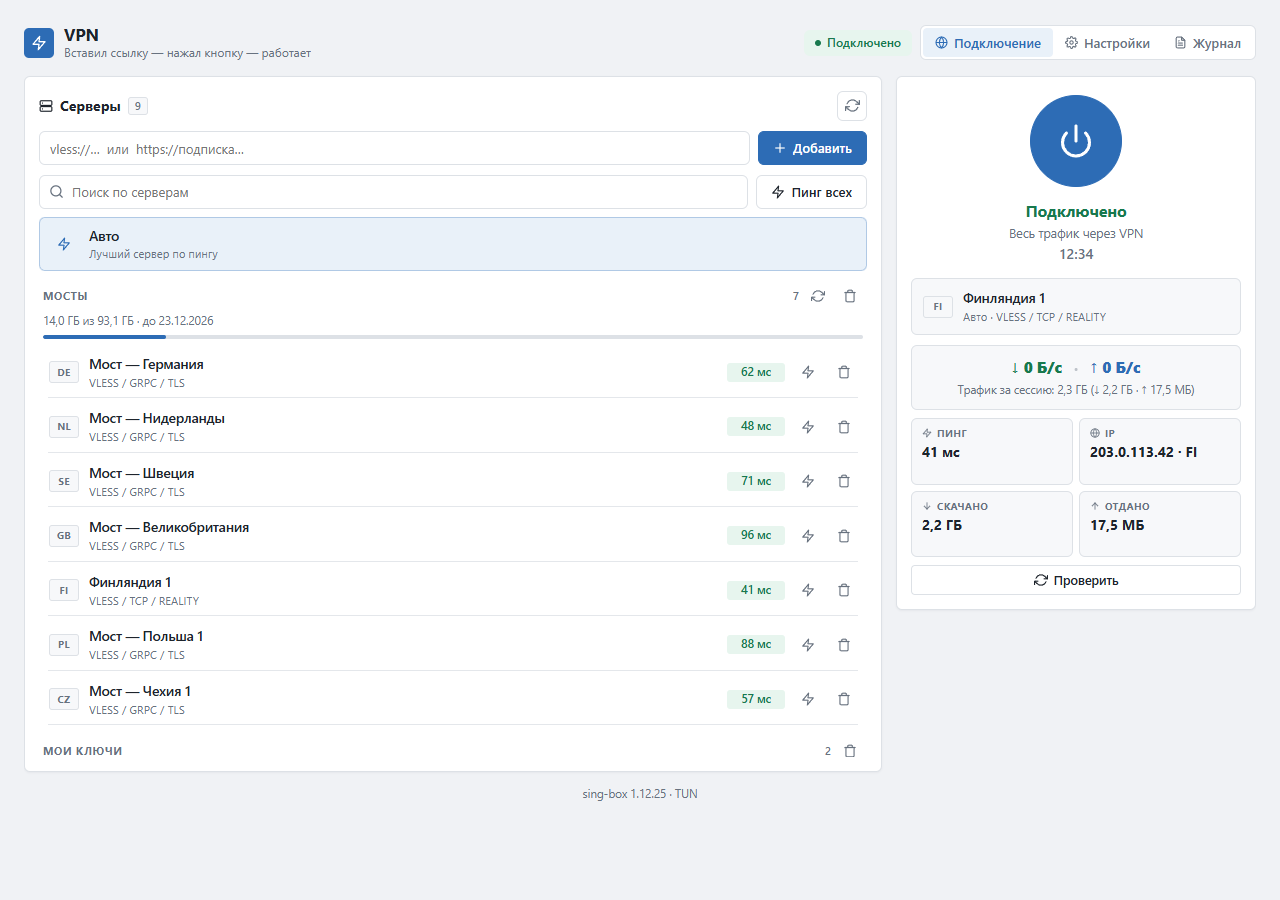
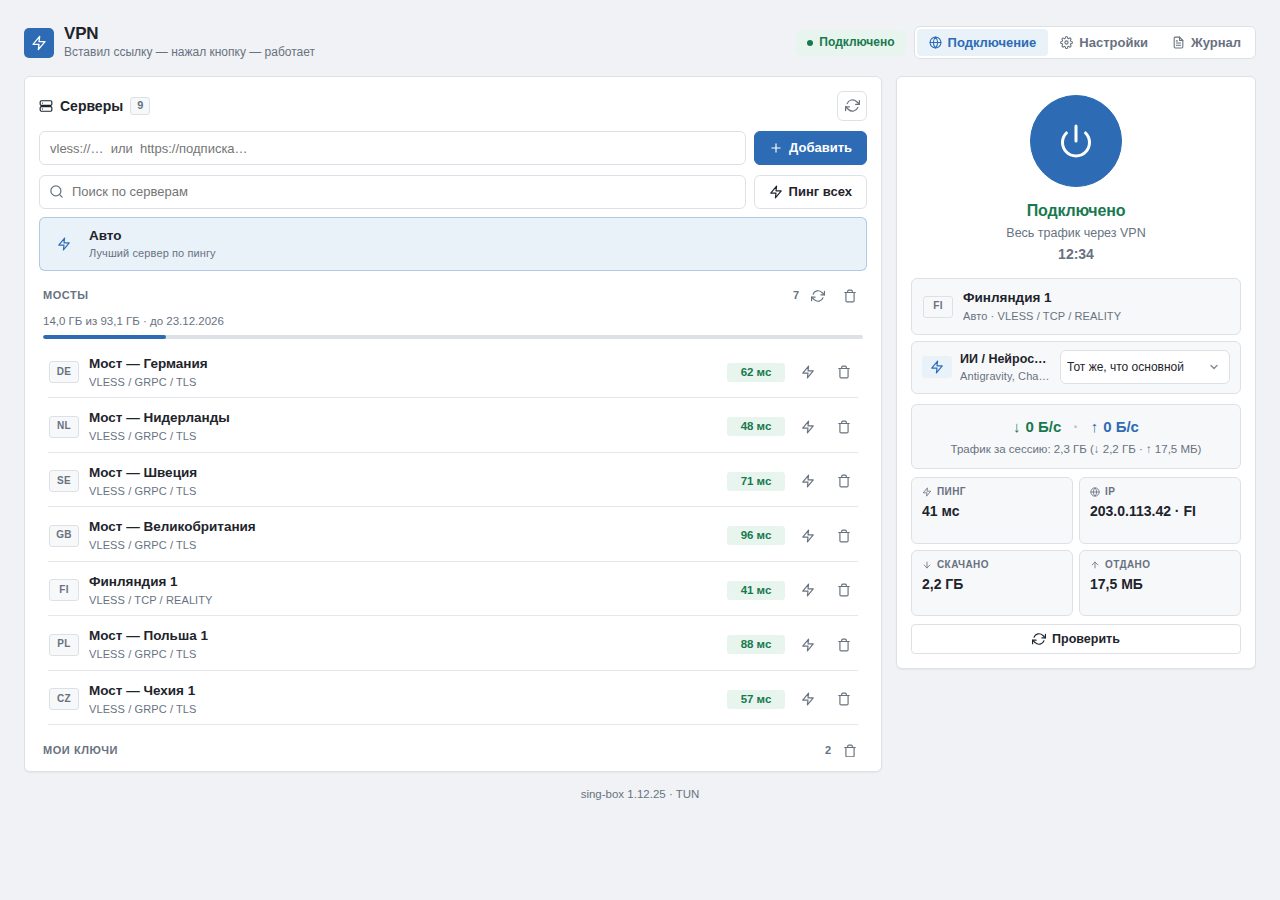
docs: обновление скриншотов интерфейса и описания возможностей

diff --git a/README.md b/README.md
@@ -23,6 +23,8 @@
 - **Автозагрузка официального sing-box.** Если в opkg нет пакета sing-box или установлена устаревшая сборка без TUN, установщик сам определит архитектуру роутера (`mipsle`, `aarch64`, `arm`, `x86_64`) и скачает официальный бинарник с GitHub Releases (`vless fetch-core`).
 - **Форматы.** `vless://`, `vmess://`, `trojan://`, `ss://`, `hysteria2://`, подписки `https://…` (обычные, base64, Xray-JSON). Reality, TLS, WebSocket, gRPC, HTTPUpgrade, h2.
 - **Пресеты маршрутизации.** Весь трафик, «всё, кроме российских сайтов» или «только выбранное»: Telegram, YouTube, Discord, Meta, X, ИИ-сервисы, 18+ — плюс свои сайты.
+- **Выделенный сервер для нейросетей и ИИ.** ChatGPT, Claude, Gemini, Antigravity и другие ИИ-сервисы могут направляться через отдельный выбранный сервер (например, Великобританию или автовыбор) независимо от основного VPN.
+- **Интерактивная проверка маршрута и пинга.** Встроенная плашка проверки: введите любой домен или IP и мгновенно узнайте, пойдёт ли он напрямую, через основной VPN или через сервер ИИ, с замером реального пинга.
 - **Информация о подписке.** Остаток трафика и срок действия, автообновление подписок.
 - **Для продвинутых.** Выбор устройств, свои исключения, Kill Switch, DNS через VPN, блокировка IPv6 и QUIC, MTU, режим TUN.
 - **Пинг.** Кнопка «Пинг всех» над списком, значок молнии у каждого сервера и «Пинг выбранного сервера» на карточке подключения. Пинг работает даже без VPN — измеряется напрямую через TCP connect.

diff --git a/README.en.md b/README.en.md
@@ -26,6 +26,8 @@ It runs [sing-box](https://github.com/SagerNet/sing-box) in TUN mode and routes 
 - **Official sing-box core download.** Automatically detects router CPU architecture (`mipsle`, `aarch64`, `arm`, `x86_64`, etc.) and downloads the official sing-box binary if not available in opkg or outdated (`vless fetch-core`).
 - **Formats.** `vless://`, `vmess://`, `trojan://`, `ss://`, `hysteria2://`, and subscriptions over `https://…` (plain, base64, Xray JSON). Reality, TLS, WebSocket, gRPC, HTTPUpgrade, h2.
 - **Routing presets.** Everything, "everything except Russian sites", or "selected services only": Telegram, YouTube, Discord, Meta, X, AI services, 18+ — plus your own sites.
+- **Dedicated AI routing.** Route AI services (ChatGPT, Claude, Gemini, Antigravity, etc.) through a specific country or server independently from your main VPN.
+- **Route inspection tool.** In-app route test tool to verify whether any domain or IP routes directly, through the main VPN, or through the AI proxy, with live latency measurement.
 - **Subscription info.** Remaining traffic and expiry date, automatic subscription refresh.
 - **Advanced.** Per-device selection, custom exclusions, Kill Switch, DNS through the VPN, IPv6 and QUIC blocking, MTU, TUN stack.
 - **Ping.** "Ping all", per-server ping, and a direct (no-VPN) TCP-connect ping that works even while disconnected.
